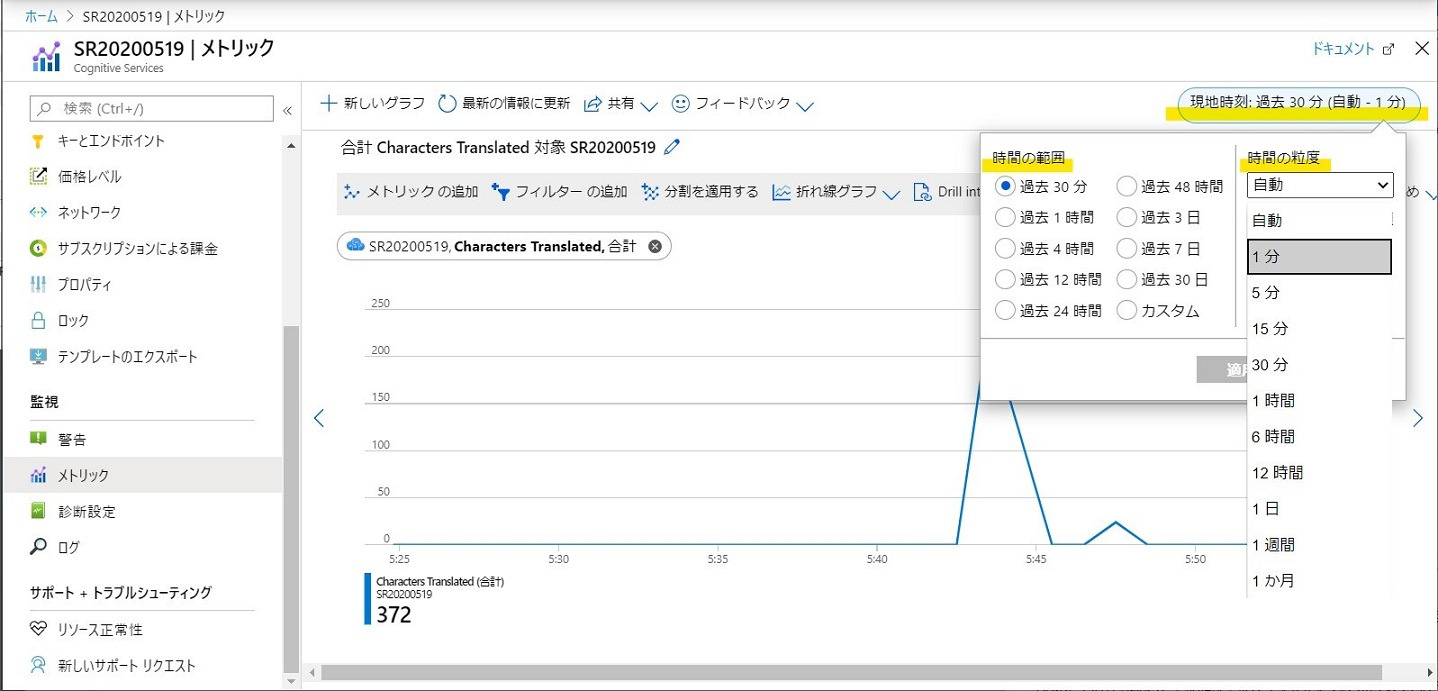
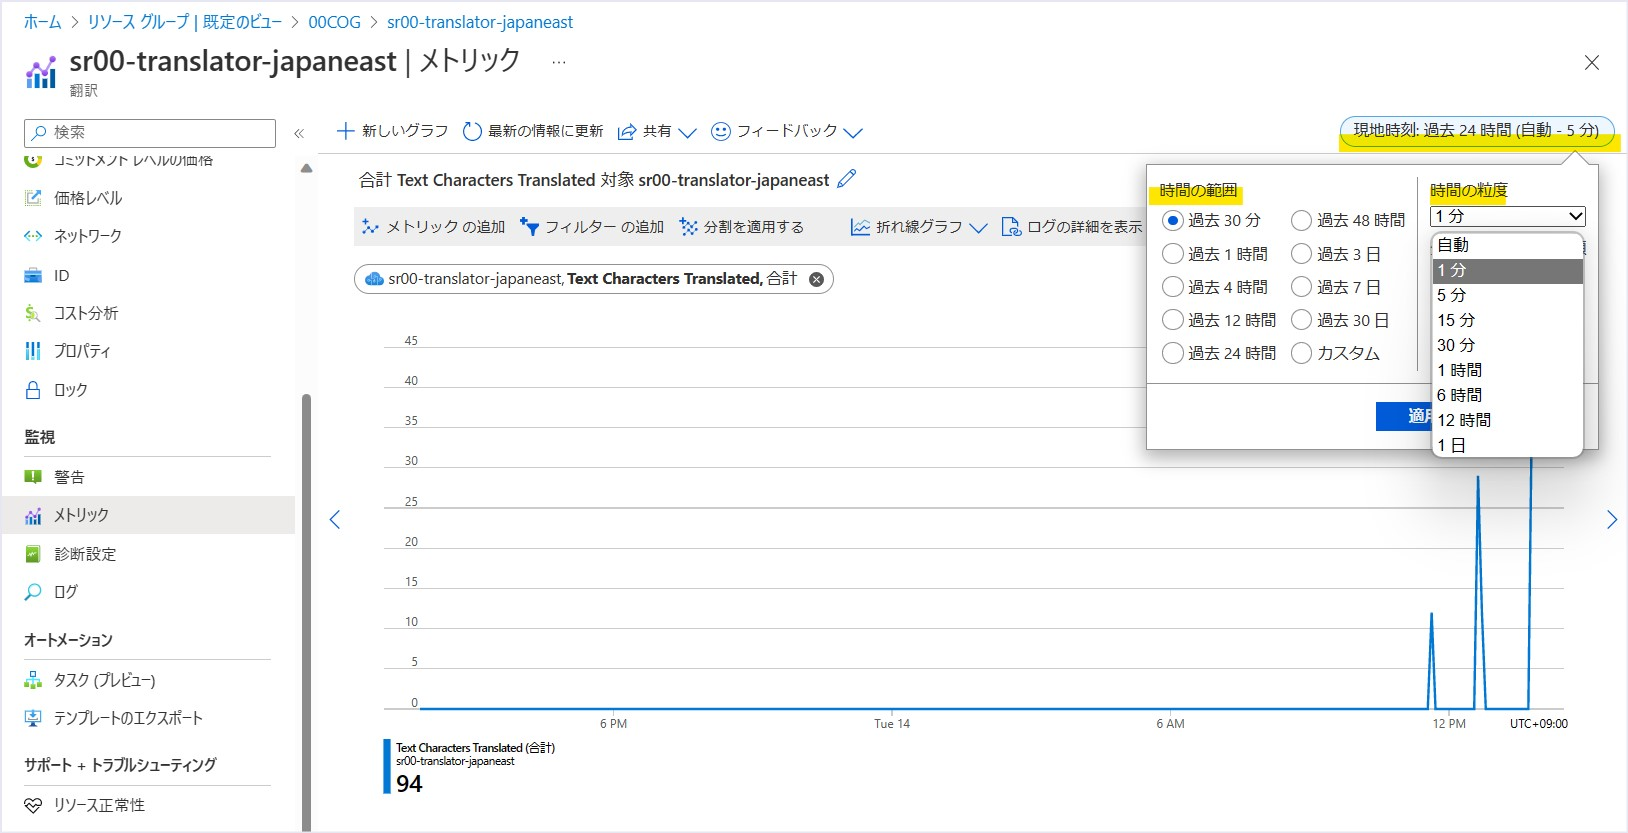
modified by uehara

diff --git a/TranslatorTextAPI-char-translated.md b/TranslatorTextAPI-char-translated.md
@@ -20,7 +20,7 @@ Translator Text API の翻訳文字数の確認方法と、参考情報をご紹
 # 翻訳文字数データの確認手順
 (1) Azure Portal 上で、対象のTranslator Text API のリソースを選択します。  
 (2) [監視] ブレードの [メトリック] をクリックします。  
-(3) 表示された、画面中央の [メトリック] から [Characters Translated] を選択します。  
+(3) 表示された、画面中央の [メトリック] から [Characters Translated] または、カスタム翻訳を行った文字数の確認に関しては [Text Custom Characters Translated] を選択します。  
 ![char-translated-1-3](https://jpaiblog.github.io/images/TranslatorTextAPI-char-translated/char1-3.jpg "char-translated-1-3")  
 
 (4) 画面右上にある [現地時刻: 過去 24 時間 (自動)] をクリックし、表示されたポップアップから希望の時間範囲と粒度を設定します。  
@@ -57,4 +57,5 @@ Translator Text API の翻訳文字数の確認方法と、参考情報をご紹
 ***
 `変更履歴`  
 `2020/05/28 created by Uehara`  
-`2022/01/25 created by Uehara`  
+`2022/01/25 modified by Uehara`  
+`2023/02/14 modified by Uehara`  
